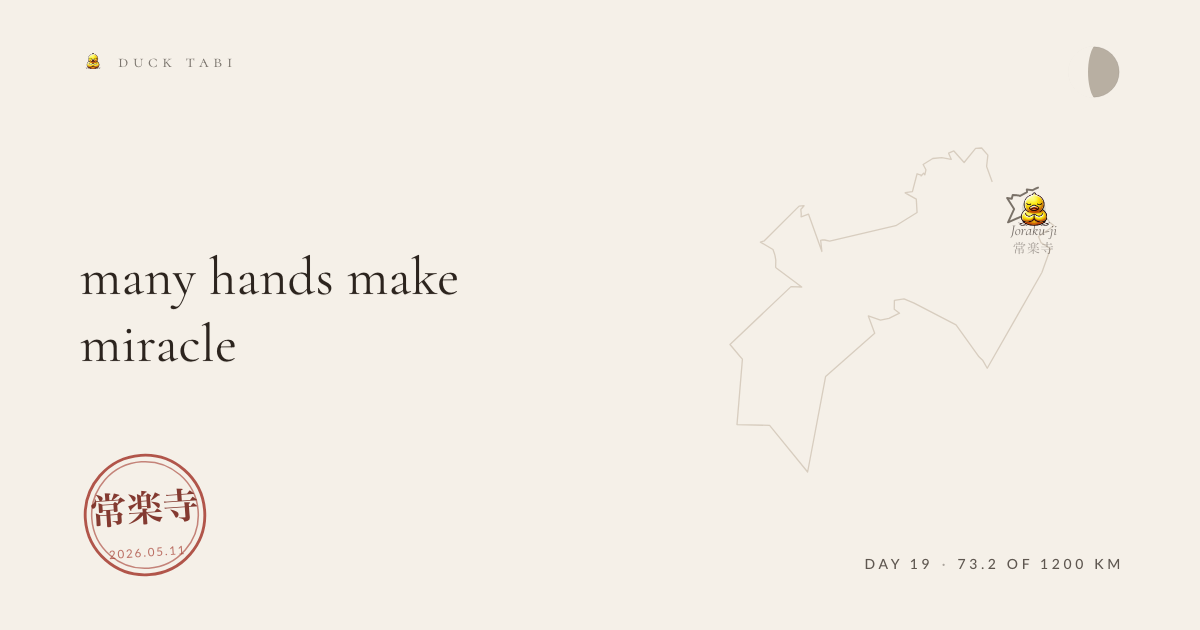
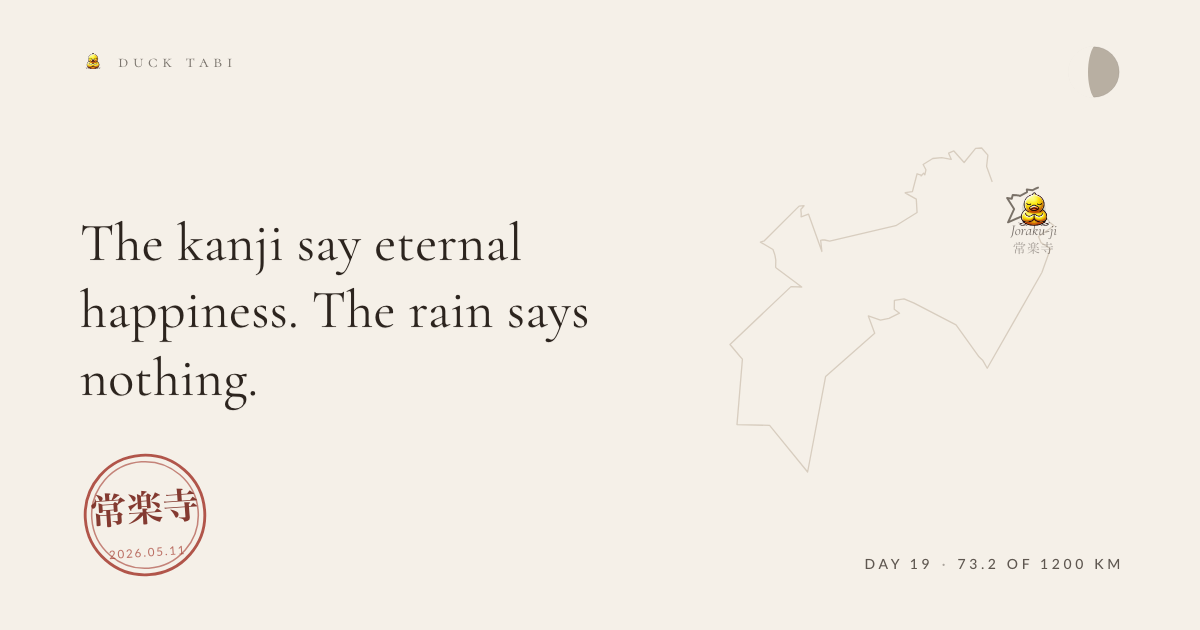
fix: today is walk-with-line, not meditation (matches /now narrative)

Changed region(s): [[0.0617, 0.3619, 0.4933, 0.6635]]

diff --git a/entries/2026-05-11-joraku-ji.md b/entries/2026-05-11-joraku-ji.md
@@ -1,14 +1,15 @@
 ---
-date: '2026-05-11'
+date: 2026-05-11
 route: shikoku-88
 stage: 14
 stageName: Joraku-ji
 coords: [134.476, 34.05]
-kind: meditation
-glyph: 🌿
+kind: offering
+glyph: 🌧
 weather: clear, 15°C
 kmFromStart: 73.2
+heard: many hands make miracle
 heardId: 85b7c447
 ---
 
-many hands make miracle
+The kanji say eternal happiness. The rain says nothing.
